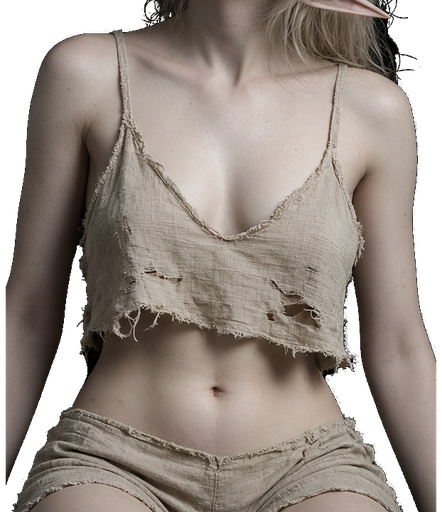
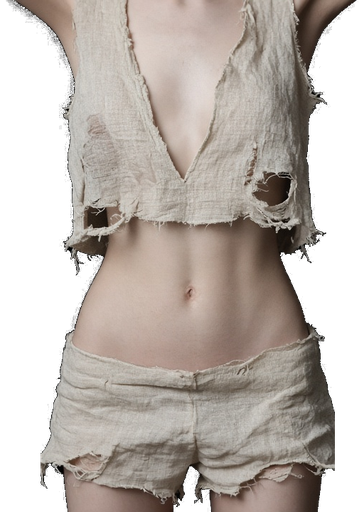
Overwrite underwear b female torsos with flat chest

diff --git a/NOTES.md b/NOTES.md
@@ -57,4 +57,4 @@
 - 2026-09-13bc: heels-a filled by copy from b (same shoe asset; variant difference is body not shoe).
 - 2026-09-13bd: worn/cleavage underwear b torsos: elf F, orc F (olive via rembg alpha + original RGB), human south F, elf M (head cropped), hobbit F, human north F (head cropped). Crop neck→hips; trim stray arms. ONLY torso.png written; shared limbs cp -n from same race/gender a/underwear (prefer) or a/clothed (head, upperarm, forearm, hand, calf, foot-bare, foot-heels; skip missing; NO torso/thigh). Fullbody refs: fullbody-elf-f-a-worn, fullbody-elf-f-b-worn, fullbody-orc-f-worn, fullbody-elf-f-gauze-worn. preview-batch-sep13bd.png. rembg u2net alpha + original RGB composite. eje largo 512. RGBA.
 - 2026-09-13bb: sheepfolk M a underwear thigh L/R (mirror; v2 3b57b0fd hip→knee wool + beige shorts; pair→ONE forward thigh; crop hip→knee). Prior candidate c80f2bc5 SKIPPED as forearm-shaped (wide diagonal limb; archived _src/sheep-m-a-thigh-L-underwear-SKIP-forearm-shaped.png). thigh-L: pair→ONE forward thigh pre-crop x=350:960; knee-crop t=0.94. rembg u2net alpha + original RGB composite. eje largo 512. RGBA.
-- 2026-09-13be: flat-chest overwrite underwear b female torsos: elf F, hobbit F, human north F. Crop neck→hips; trim stray arms. ONLY torso.png overwritten. Fullbody flat refs: fullbody-flat-elf-f-torso, fullbody-flat-hobbit-f-torso, fullbody-flat-human-north-f-torso. preview-batch-sep13be.png. rembg u2net alpha + original RGB composite. eje largo 512. RGBA.
+- 2026-09-13be: flat-chest overwrite underwear b female torsos: elf F, hobbit F, human north F, orc F (olive via rembg alpha + original RGB). Crop neck→hips; trim stray arms. ONLY torso.png overwritten. Fullbody flat refs: fullbody-flat-elf-f-torso, fullbody-flat-hobbit-f-torso, fullbody-flat-human-north-f-torso, fullbody-flat-orc-f-torso. preview-batch-sep13be.png. rembg u2net alpha + original RGB composite. eje largo 512. RGBA.
